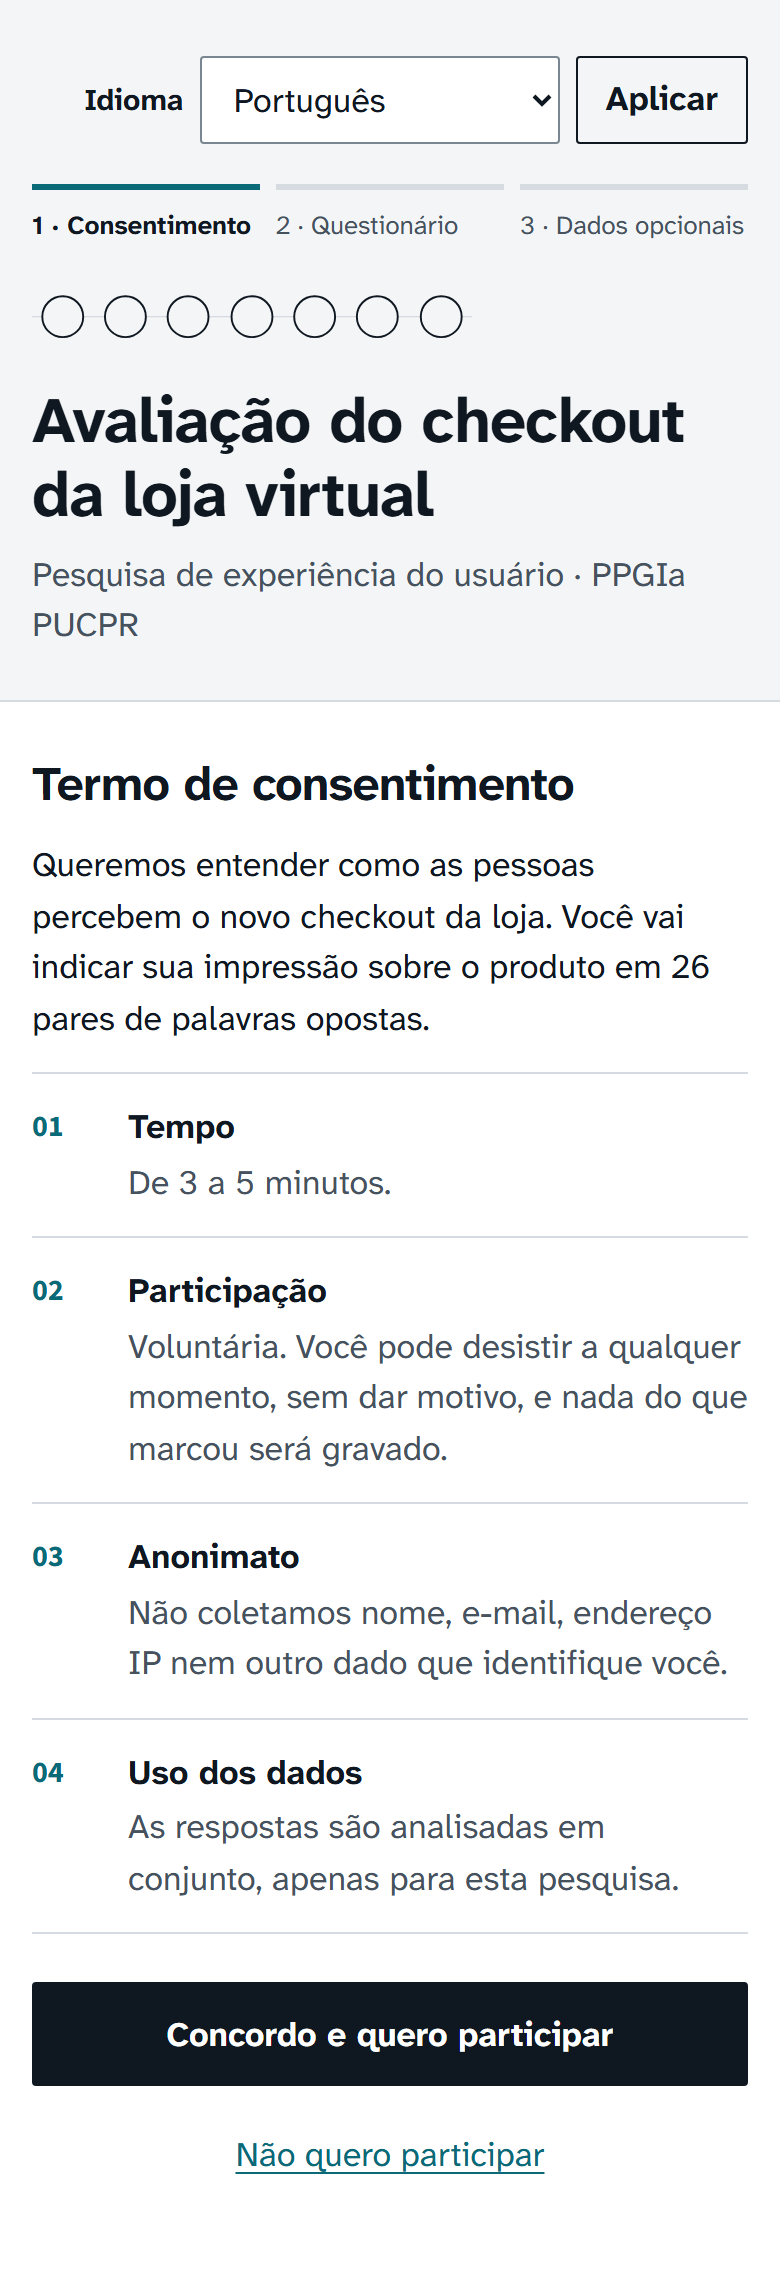
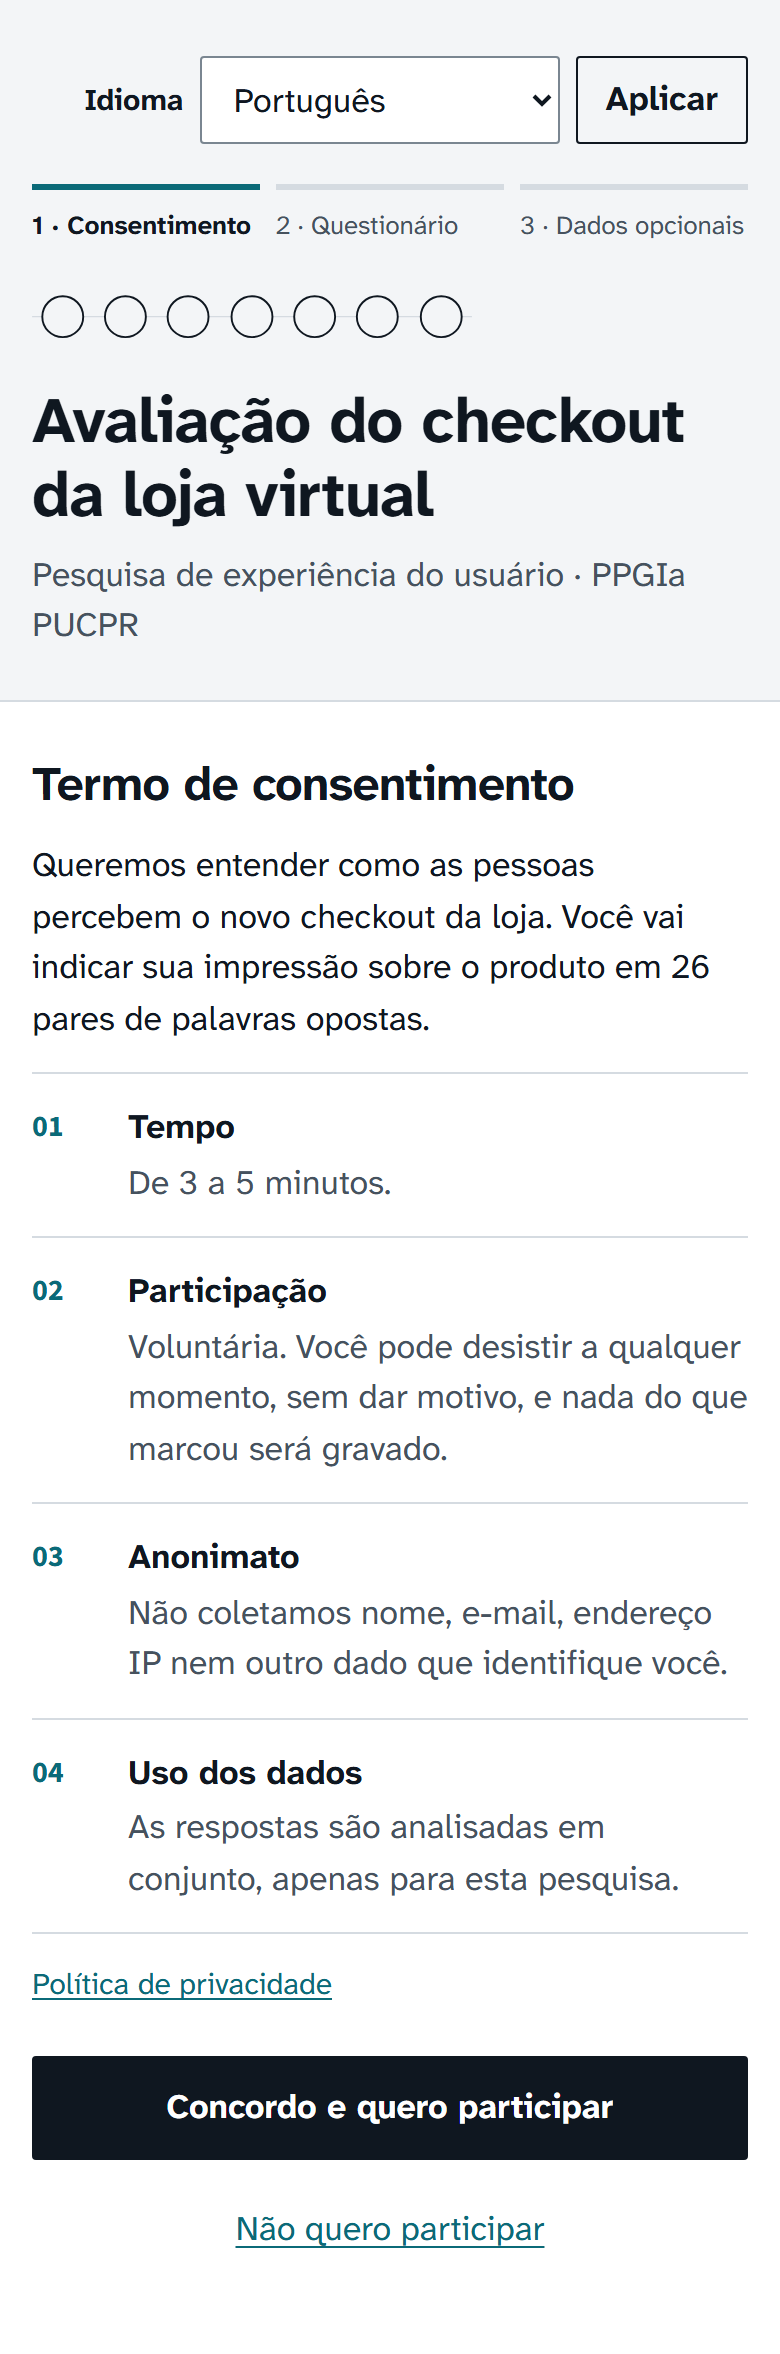
liga o termo de consentimento à política de privacidade, dentro do link do participante
A página fica em /r/<slug>/privacidade, sem barra e sem caminho para o resto da ferramenta, com o link e o voltar nos 37 idiomas. Sem tradução do texto, avisa no idioma da pessoa e marca o conteúdo como português.

diff --git a/tests/e2e/questionario.spec.ts b/tests/e2e/questionario.spec.ts
@@ -223,7 +223,7 @@ test("sair sem enviar confirma numa janela e não grava nada", async ({ page, br
   await estudo.fechar();
 });
 
-// Quem responde só vê o formulário e o seletor de idioma: nenhum link sai do próprio estudo
+// Quem responde só vê o formulário, o seletor de idioma e a política: nenhum link sai do próprio estudo
 async function soLinksDoFormulario(page: Page) {
   await expect(page.getByRole("navigation", { name: "Principal" })).toHaveCount(0);
   const destinos = await page.locator("a[href]").evaluateAll((links) => links.map((link) => link.getAttribute("href") ?? ""));
@@ -246,6 +246,32 @@ test("o link do participante só mostra o formulário e o seletor de idioma, sem
   await page.getByRole("button", { name: "Pular esta etapa" }).click();
   await expect(page).toHaveURL(/\/fim$/);
   await soLinksDoFormulario(page);
+  await estudo.fechar();
+});
+
+test("a política de privacidade abre pelo termo, dentro do link do participante, e volta para ele", async ({ page, browser }, info) => {
+  const estudo = await estudoAberto(browser, info);
+  await page.goto(estudo.link);
+  await page.getByRole("link", { name: "Política de privacidade" }).click();
+  await expect(page).toHaveURL(/\/privacidade$/);
+  await expect(page.getByRole("heading", { level: 1, name: "Política de privacidade" })).toBeVisible();
+  await expect(page.getByRole("heading", { name: "Se você respondeu um questionário" })).toBeVisible();
+  // Nem a barra da ferramenta nem o link de Minha conta: nada sai do estudo
+  await soLinksDoFormulario(page);
+  await verificarAcessibilidade(page);
+  await page.getByRole("link", { name: "Voltar" }).first().click();
+  await expect(page.getByRole("button", { name: "Concordo e quero participar" })).toBeVisible();
+  await estudo.fechar();
+});
+
+test("sem tradução automática, a política avisa no idioma da pessoa e sai marcada como português", async ({ page, browser }, info) => {
+  const estudo = await estudoAberto(browser, info, { idioma: "en" });
+  await page.goto(estudo.link);
+  await page.getByRole("link", { name: "Privacy policy" }).click();
+  await expect(page.getByText("This policy has not been translated into your language yet")).toBeVisible();
+  await expect(page.locator("main")).toHaveAttribute("lang", "pt-BR");
+  await expect(page.getByRole("link", { name: "Back" }).first()).toBeVisible();
+  await verificarAcessibilidade(page);
   await estudo.fechar();
 });
 

diff --git a/src/app/r/[slug]/privacidade/page.tsx b/src/app/r/[slug]/privacidade/page.tsx
@@ -1,0 +1,49 @@
+import type { Metadata, Route } from "next";
+import Link from "next/link";
+import { Politica } from "@/app/(ferramenta)/(publico)/privacidade/Politica";
+import estilos from "@/app/(ferramenta)/(publico)/privacidade/privacidade.module.css";
+import { infoIdioma, textosDoIdioma } from "@/idiomas";
+import { estudoPublico, idiomaDoParticipante, textosDoEstudo } from "@/lib/participacao";
+import { tradutorDoIdioma } from "@/traducao/servidor";
+
+type Propriedades = { params: Promise<{ slug: string }> };
+
+export async function generateMetadata({ params }: Propriedades): Promise<Metadata> {
+  const { slug } = await params;
+  const doEstudo = await textosDoEstudo(slug);
+  const { consentimento } = textosDoIdioma(await idiomaDoParticipante(slug));
+  return { title: `${consentimento.privacidade} · ${doEstudo.titulo}` };
+}
+
+// A mesma política da ferramenta, dentro do link do participante: sem barra e sem caminho para o resto da
+// ferramenta, e sem ícone, como as outras telas dele. O voltar leva ao termo, de onde a pessoa veio.
+// O texto vem da tradução automática; enquanto ela não existe, sai em português, marcado com o lang certo
+export default async function PaginaPrivacidadeParticipante({ params }: Propriedades) {
+  const { slug } = await params;
+  await estudoPublico(slug);
+  const idioma = infoIdioma(await idiomaDoParticipante(slug));
+  const textos = textosDoIdioma(idioma.codigo);
+  const t = await tradutorDoIdioma(idioma.codigo);
+  const semTraducao = t.lang !== idioma.lang;
+
+  return (
+    <main id="conteudo" tabIndex={-1} lang={t.lang} dir={semTraducao ? "ltr" : undefined}>
+      <Politica
+        t={t}
+        comLinkDaConta={false}
+        voltar={
+          <Link href={`/r/${slug}` as Route} className={estilos.voltar} lang={idioma.lang} dir={idioma.direcao}>
+            {textos.politica.voltar}
+          </Link>
+        }
+        aviso={
+          semTraducao && (
+            <p className={estilos.aviso} lang={idioma.lang} dir={idioma.direcao}>
+              {textos.politica.semTraducao}
+            </p>
+          )
+        }
+      />
+    </main>
+  );
+}

diff --git a/src/idiomas/textos/ta.ts b/src/idiomas/textos/ta.ts
@@ -34,6 +34,11 @@ export const ta: TextosParticipante = {
     ],
     concordo: "நான் ஒப்புக்கொண்டு பங்கேற்க விரும்புகிறேன்",
     naoQuero: "நான் பங்கேற்க விரும்பவில்லை",
+    privacidade: "தனியுரிமைக் கொள்கை",
+  },
+  politica: {
+    voltar: "பின்செல்",
+    semTraducao: "இந்தக் கொள்கை இன்னும் உங்கள் மொழியில் மொழிபெயர்க்கப்படவில்லை, எனவே போர்த்துகீசிய மொழியில் காட்டப்படுகிறது.",
   },
   fechado: {
     rascunho: {

diff --git a/src/app/r/[slug]/page.tsx b/src/app/r/[slug]/page.tsx
@@ -82,6 +82,11 @@ export default async function PaginaConsentimento({ params }: Propriedades) {
               </div>
             ))}
           </dl>
+          {/* LGPD, art. 9º: quem vai consentir precisa poder ler o que acontece com os dados. A página fica
+              dentro do link do participante: nenhum caminho leva ao resto da ferramenta */}
+          <p className={estilos.linkPrivacidade}>
+            <Link href={`/r/${slug}/privacidade` as Route}>{consentimento.privacidade}</Link>
+          </p>
         </section>
         {/* Uma ação principal só (Hick, Nielsen 8); recusar é um link igualmente visível (§3.7) */}
         <form action={consentir.bind(null, slug)} className={estilos.decisao}>

diff --git a/src/idiomas/textos/kn.ts b/src/idiomas/textos/kn.ts
@@ -34,6 +34,11 @@ export const kn: TextosParticipante = {
     ],
     concordo: "ನಾನು ಸಮ್ಮತಿಸುತ್ತೇನೆ ಮತ್ತು ಭಾಗವಹಿಸಲು ಬಯಸುತ್ತೇನೆ",
     naoQuero: "ನಾನು ಭಾಗವಹಿಸಲು ಬಯಸುವುದಿಲ್ಲ",
+    privacidade: "ಗೌಪ್ಯತಾ ನೀತಿ",
+  },
+  politica: {
+    voltar: "ಹಿಂದಕ್ಕೆ",
+    semTraducao: "ಈ ನೀತಿಯನ್ನು ಇನ್ನೂ ನಿಮ್ಮ ಭಾಷೆಗೆ ಅನುವಾದಿಸಿಲ್ಲ, ಆದ್ದರಿಂದ ಪೋರ್ಚುಗೀಸ್ನಲ್ಲಿ ತೋರಿಸಲಾಗಿದೆ.",
   },
   fechado: {
     rascunho: {

diff --git a/src/idiomas/textos/mr.ts b/src/idiomas/textos/mr.ts
@@ -34,6 +34,11 @@ export const mr: TextosParticipante = {
     ],
     concordo: "मी सहमत आहे आणि सहभागी होऊ इच्छितो/इच्छिते",
     naoQuero: "मला सहभागी व्हायचे नाही",
+    privacidade: "गोपनीयता धोरण",
+  },
+  politica: {
+    voltar: "मागे जा",
+    semTraducao: "हे धोरण अद्याप तुमच्या भाषेत अनुवादित झालेले नाही, म्हणून ते पोर्तुगीजमध्ये दिसत आहे.",
   },
   fechado: {
     rascunho: {

diff --git a/src/idiomas/textos/hi.ts b/src/idiomas/textos/hi.ts
@@ -34,6 +34,11 @@ export const hi: TextosParticipante = {
     ],
     concordo: "मैं सहमत हूँ और भाग लेना चाहता/चाहती हूँ",
     naoQuero: "मैं भाग नहीं लेना चाहता/चाहती",
+    privacidade: "निजता नीति",
+  },
+  politica: {
+    voltar: "वापस जाएँ",
+    semTraducao: "यह नीति अभी आपकी भाषा में अनूदित नहीं हुई है, इसलिए पुर्तगाली में दिखाई दे रही है।",
   },
   fechado: {
     rascunho: {

diff --git a/src/idiomas/textos/th.ts b/src/idiomas/textos/th.ts
@@ -34,6 +34,11 @@ export const th: TextosParticipante = {
     ],
     concordo: "ฉันยินยอมและต้องการเข้าร่วม",
     naoQuero: "ฉันไม่ต้องการเข้าร่วม",
+    privacidade: "นโยบายความเป็นส่วนตัว",
+  },
+  politica: {
+    voltar: "ย้อนกลับ",
+    semTraducao: "นโยบายนี้ยังไม่ได้แปลเป็นภาษาของคุณ จึงแสดงเป็นภาษาโปรตุเกส",
   },
   fechado: {
     rascunho: {

diff --git a/src/idiomas/textos/bn.ts b/src/idiomas/textos/bn.ts
@@ -34,6 +34,11 @@ export const bn: TextosParticipante = {
     ],
     concordo: "আমি সম্মত এবং অংশ নিতে চাই",
     naoQuero: "আমি অংশ নিতে চাই না",
+    privacidade: "গোপনীয়তা নীতি",
+  },
+  politica: {
+    voltar: "ফিরে যান",
+    semTraducao: "এই নীতি এখনও আপনার ভাষায় অনূদিত হয়নি, তাই পর্তুগিজ ভাষায় দেখানো হচ্ছে।",
   },
   fechado: {
     rascunho: {

diff --git a/src/idiomas/tipos.ts b/src/idiomas/tipos.ts
@@ -41,6 +41,13 @@ export type TextosParticipante = {
     condicoes: [[string, string], [string, string], [string, string], [string, string]];
     concordo: string;
     naoQuero: string;
+    // O link para a política de privacidade, no fim do termo
+    privacidade: string;
+  };
+  politica: {
+    voltar: string;
+    // O texto da política vem da tradução automática; sem ela, aparece em português e a tela avisa
+    semTraducao: string;
   };
   fechado: { rascunho: Aviso; encerrado: Aviso };
   jaRespondeu: { titulo: string; texto: string };

diff --git a/src/idiomas/textos/el.ts b/src/idiomas/textos/el.ts
@@ -34,6 +34,11 @@ export const el: TextosParticipante = {
     ],
     concordo: "Συμφωνώ και θέλω να συμμετάσχω",
     naoQuero: "Δεν θέλω να συμμετάσχω",
+    privacidade: "Πολιτική απορρήτου",
+  },
+  politica: {
+    voltar: "Επιστροφή",
+    semTraducao: "Αυτή η πολιτική δεν έχει μεταφραστεί ακόμη στη γλώσσα σας και εμφανίζεται στα πορτογαλικά.",
   },
   fechado: {
     rascunho: {

diff --git a/src/idiomas/textos/bg.ts b/src/idiomas/textos/bg.ts
@@ -34,6 +34,11 @@ export const bg: TextosParticipante = {
     ],
     concordo: "Съгласен/съгласна съм и искам да участвам",
     naoQuero: "Не искам да участвам",
+    privacidade: "Политика за поверителност",
+  },
+  politica: {
+    voltar: "Назад",
+    semTraducao: "Тази политика все още не е преведена на вашия език и се показва на португалски.",
   },
   fechado: {
     rascunho: {
